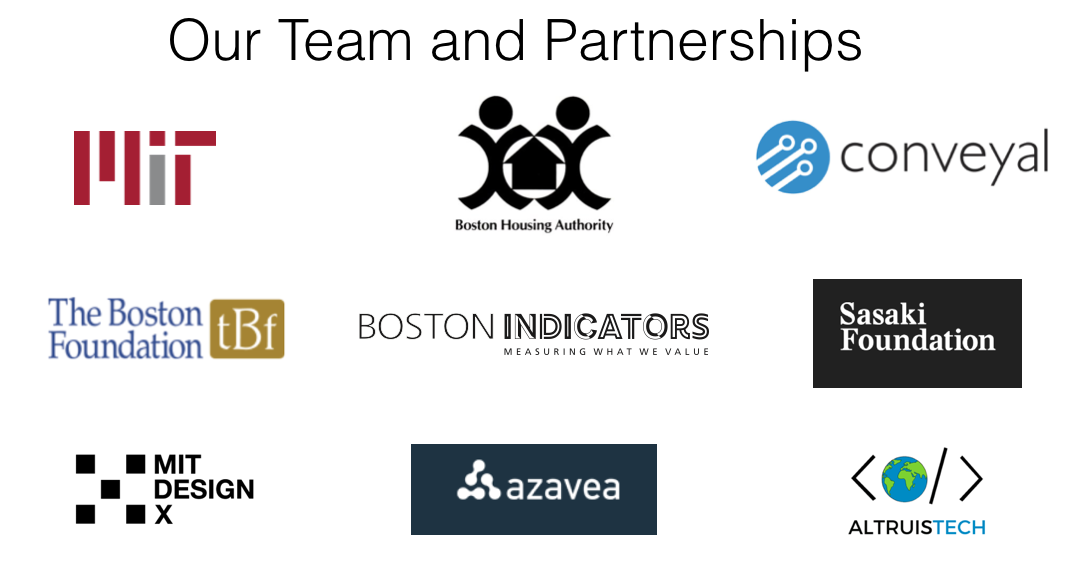
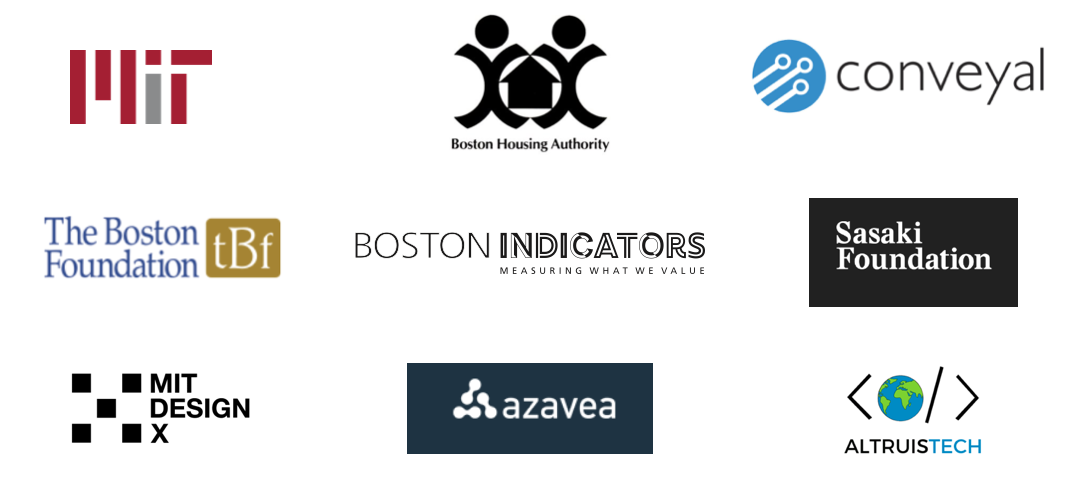
updated gallery, partnerships, so some formatting

diff --git a/index.html b/index.html
@@ -19,7 +19,7 @@
 				<!-- One -->
 					<section class="banner style1 color2 invert orient-left content-align-left image-position-right fullscreen onload-image-fade-in onload-content-fade-right">
 						<div class="content">
-							<h1> ECHO </h1>
+							<h1 style="font-weight: bold"> ECHO </h1>
 							<p class="major"> A revolutionary housing search tool designed to improve the housing search process for low-income families in Greater Boston and around the country.</p>
 							<ul class="actions stacked">
 								<li><a href="#first" class="button big wide smooth-scroll-middle">Get Started</a></li>
@@ -45,7 +45,7 @@
 
 					<div class="content">
 						<h2> Our Work</h2>
-						<p>We’ve designed phase one of the website and are currently piloting it with shelters across the state trying to help homeless families find shelter. In the next phase, we’ll be moving to mobile, adding in a number of helpful features that will enable families to learn more about potential neighborhoods and search through a variety of housing search websites, and rolling out the tool more widely. 
+						<p>We’ve designed phase one of the website and are currently piloting it with shelters across the state trying to help homeless families find shelter. In the next phase, we’ll be moving to mobile, adding in a number of helpful features that will enable families to learn more about potential neighborhoods and search through a variety of housing search websites, and rolling out the tool more widely.
 						</p>
 
 					</div>
@@ -54,168 +54,72 @@
 					</div>
 				</section>
 
-				<!-- Four -->
-				<section class="spotlight style5 orient-left content-align-left image-position-center onscroll-image-fade-in">
-					<div class="content">
-						<h2>Who We Are</h2>
-						<p>ECHO is designed by researchers at MIT, the Boston Housing Authority and partners throughout the Greater Boston area. </p>
-						<ul class="actions stacked">
-							<li><a href="#" class="button">Learn More</a></li>
-						</ul>
-					</div>
-					<div class="image fit">
-						<img src="images/echo_teams.png"/>
-					</div>
-				</section>
-
 				<!-- Five -->
 					<section class="wrapper style1 align-center">
 						<div class="inner">
-							<h2> Feature Gallery </h2>
-							<p>Lorem ipsum dolor sit amet, consectetur adipiscing elit. Morbi id ante sed ex pharetra lacinia sit amet vel massa. Donec facilisis laoreet nulla eu bibendum. Donec ut ex risus. Fusce lorem lectus, pharetra pretium massa et, hendrerit vestibulum odio lorem ipsum.</p>
+							<h2>Explore ECHO</h2>
+							<p>
+								Browse through screenshots from the website below to explore ECHO and its features.
+							</p>
 						</div>
 
 						<!-- Gallery -->
 							<div class="gallery style2 medium lightbox onscroll-fade-in">
 								<article>
-									<a href="images/gallery/fulls/01.jpg" class="image">
-										<img src="images/gallery/thumbs/01.jpg" alt="" />
+									<a href="images/gallery/fulls/echo.png" class="image">
+										<img src="images/gallery/thumbs/echo.png" alt="" />
 									</a>
 									<div class="caption">
-										<h3>Ipsum Dolor</h3>
-										<p>Lorem ipsum dolor amet, consectetur magna etiam elit. Etiam sed ultrices.</p>
+										<h3>High-quality Neighborhoods</h3>
+										<p>ECHO ranks neighborhoods by suitability to preferences and shortest travel time from user's popular destinations to inrease access to high-quality neighborhoods.</p>
 										<ul class="actions fixed">
 											<li><span class="button small">Details</span></li>
 										</ul>
 									</div>
 								</article>
 								<article>
-									<a href="images/gallery/fulls/02.jpg" class="image">
-										<img src="images/gallery/thumbs/02.jpg" alt="" />
+									<a href="images/gallery/fulls/profile.png" class="image">
+										<img src="images/gallery/thumbs/profile.png" alt="" />
 									</a>
 									<div class="caption">
-										<h3>Feugiat Lorem</h3>
-										<p>Lorem ipsum dolor amet, consectetur magna etiam elit. Etiam sed ultrices.</p>
+										<h3>Customizability</h3>
+										<p>Users enter their information into the profile page such as their budget, frequent locations, typical transit methods, and neighborhood preferences to ensure their neighborhood recommendations are tailored to them.</p>
 										<ul class="actions fixed">
 											<li><span class="button small">Details</span></li>
 										</ul>
 									</div>
 								</article>
 								<article>
-									<a href="images/gallery/fulls/03.jpg" class="image">
-										<img src="images/gallery/thumbs/03.jpg" alt="" />
+									<a href="images/gallery/fulls/neighborhood.png" class="image">
+										<img src="images/gallery/thumbs/neighborhood.png" alt="" />
 									</a>
 									<div class="caption">
-										<h3>Magna Amet</h3>
-										<p>Lorem ipsum dolor amet, consectetur magna etiam elit. Etiam sed ultrices.</p>
+										<h3>Neighborhood Specifics</h3>
+										<p>When a neighborhood is clicked, travel routes to the center of the nighborhood, basic statistics about the neighborhood, and links to other housing search websites for that area are shown.</p>
 										<ul class="actions fixed">
 											<li><span class="button small">Details</span></li>
 										</ul>
 									</div>
 								</article>
 								<article>
-									<a href="images/gallery/fulls/04.jpg" class="image">
-										<img src="images/gallery/thumbs/04.jpg" alt="" />
+									<a href="images/gallery/fulls/neighborhood_description.png" class="image">
+										<img src="images/gallery/thumbs/neighborhood_description.png" alt="" />
 									</a>
 									<div class="caption">
-										<h3>Sed Tempus</h3>
-										<p>Lorem ipsum dolor amet, consectetur magna etiam elit. Etiam sed ultrices.</p>
+										<h3>Neighborhood Descriptions</h3>
+										<p>When a neighborhood is clicked, a description of the neighborhood is also displayed.</p>
 										<ul class="actions fixed">
 											<li><span class="button small">Details</span></li>
 										</ul>
 									</div>
 								</article>
 								<article>
-									<a href="images/gallery/fulls/05.jpg" class="image">
-										<img src="images/gallery/thumbs/05.jpg" alt="" />
+									<a href="images/gallery/fulls/listing.png" class="image">
+										<img src="images/gallery/thumbs/listing.png" alt="" />
 									</a>
 									<div class="caption">
-										<h3>Ultrices Magna</h3>
-										<p>Lorem ipsum dolor amet, consectetur magna etiam elit. Etiam sed ultrices.</p>
-										<ul class="actions fixed">
-											<li><span class="button small">Details</span></li>
-										</ul>
-									</div>
-								</article>
-								<article>
-									<a href="images/gallery/fulls/06.jpg" class="image">
-										<img src="images/gallery/thumbs/06.jpg" alt="" />
-									</a>
-									<div class="caption">
-										<h3>Sed Tempus</h3>
-										<p>Lorem ipsum dolor amet, consectetur magna etiam elit. Etiam sed ultrices.</p>
-										<ul class="actions fixed">
-											<li><span class="button small">Details</span></li>
-										</ul>
-									</div>
-								</article>
-								<article>
-									<a href="images/gallery/fulls/07.jpg" class="image">
-										<img src="images/gallery/thumbs/07.jpg" alt="" />
-									</a>
-									<div class="caption">
-										<h3>Ipsum Lorem</h3>
-										<p>Lorem ipsum dolor amet, consectetur magna etiam elit. Etiam sed ultrices.</p>
-										<ul class="actions fixed">
-											<li><span class="button small">Details</span></li>
-										</ul>
-									</div>
-								</article>
-								<article>
-									<a href="images/gallery/fulls/08.jpg" class="image">
-										<img src="images/gallery/thumbs/08.jpg" alt="" />
-									</a>
-									<div class="caption">
-										<h3>Magna Risus</h3>
-										<p>Lorem ipsum dolor amet, consectetur magna etiam elit. Etiam sed ultrices.</p>
-										<ul class="actions fixed">
-											<li><span class="button small">Details</span></li>
-										</ul>
-									</div>
-								</article>
-								<article>
-									<a href="images/gallery/fulls/09.jpg" class="image">
-										<img src="images/gallery/thumbs/09.jpg" alt="" />
-									</a>
-									<div class="caption">
-										<h3>Tempus Dolor</h3>
-										<p>Lorem ipsum dolor amet, consectetur magna etiam elit. Etiam sed ultrices.</p>
-										<ul class="actions fixed">
-											<li><span class="button small">Details</span></li>
-										</ul>
-									</div>
-								</article>
-								<article>
-									<a href="images/gallery/fulls/10.jpg" class="image">
-										<img src="images/gallery/thumbs/10.jpg" alt="" />
-									</a>
-									<div class="caption">
-										<h3>Sed Etiam</h3>
-										<p>Lorem ipsum dolor amet, consectetur magna etiam elit. Etiam sed ultrices.</p>
-										<ul class="actions fixed">
-											<li><span class="button small">Details</span></li>
-										</ul>
-									</div>
-								</article>
-								<article>
-									<a href="images/gallery/fulls/11.jpg" class="image">
-										<img src="images/gallery/thumbs/11.jpg" alt="" />
-									</a>
-									<div class="caption">
-										<h3>Magna Lorem</h3>
-										<p>Lorem ipsum dolor amet, consectetur magna etiam elit. Etiam sed ultrices.</p>
-										<ul class="actions fixed">
-											<li><span class="button small">Details</span></li>
-										</ul>
-									</div>
-								</article>
-								<article>
-									<a href="images/gallery/fulls/12.jpg" class="image">
-										<img src="images/gallery/thumbs/12.jpg" alt="" />
-									</a>
-									<div class="caption">
-										<h3>Ipsum Dolor</h3>
-										<p>Lorem ipsum dolor amet, consectetur magna etiam elit. Etiam sed ultrices.</p>
+										<h3>Specific listings</h3>
+										<p>Listings are populated from Realtor.com and when clicked on, show the price, address, travel details, and more.</p>
 										<ul class="actions fixed">
 											<li><span class="button small">Details</span></li>
 										</ul>
@@ -225,11 +129,18 @@
 
 					</section>
 
+				<section class="wrapper style1 align-center">
+					<div class="inner medium">
+						<h2>Our Team and Partnerships</h2>
+						<img src="images/echo_teams.png" alt="" style="width: 100%"/>
+					</div>
+				</section>
+
 				<!-- Six -->
 					<section class="wrapper style1 align-center">
 						<div class="inner medium">
 							<h2>Get in touch</h2>
-							<p>At ECHO, we believe in giving every family a pathway to succeed by building a more diverse, inclusive society.  We are seeking foundation support, academic partners and housing search providers to work with us to transform families look for housing. Contact us at team@echosearch.org today.</p>
+							<p>At ECHO, we believe in giving every family a pathway to succeed by building a more diverse, inclusive society.  We are seeking foundation support, academic partners and housing search providers to work with us to transform families look for housing. Contact us at <a href="mailto:team@echosearch.org">team@echosearch.org</a> today.</p>
 							<form method="post" action="#">
 								<div class="fields">
 									<div class="field half">
